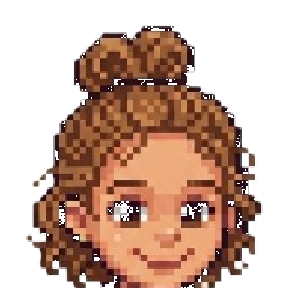
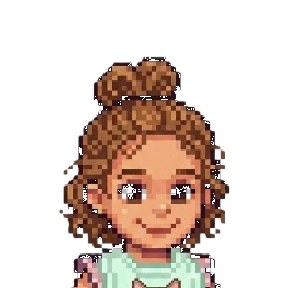
El busto de Helen se abre hasta el pecho, y Sofi cambia la honda por la onda
El retrato se recorta abriendo una caja alrededor de la cabeza, y ese margen
era el mismo para las ocho. Vale para siete; Helen no, porque está dibujada
con la cabeza más grande en proporción al cuerpo, así que la misma cuenta le
encuadraba un primer plano donde a las demás les coge hasta los hombros. Se
notaba al verla en la fila de la tienda, entre otras siete que sí respiran.

Ahora el margen se puede ajustar por personaje. Un número y no una regla
automática a propósito: cuánto cuerpo se ve es una decisión de encuadre, y una
fórmula que la adivine acertaría en unas y fallaría en otras sin que nadie
pueda corregirla sin tocar el algoritmo.

Y Sofi deja la honda balear por la onda expansiva. Las dos premian el bulto
sobre la puntería, pero desde lados contrarios: la piedra iba a buscar a la
horda y el anillo hace que la horda tenga que venir a ella. Encaja con sus
mods, que ya eran los de alguien rápido y frágil — el anillo abre el hueco por
el que salir y la velocidad es lo que te saca por él.

La lámina del README lleva los nombres de arma escritos a mano y dos habían
quedado obsoletos de golpe: Say seguía con los Satélites y Sofi con la honda.

Claude-Session: https://claude.ai/code/session_016RbRENmcz8mnG6uoihvh4d

diff --git a/js/datos/personajes.js b/js/datos/personajes.js
@@ -129,11 +129,16 @@ export const PERSONAJES = {
   sofi: {
     nombre: 'Sofi',
     sprite: 'sofi',
-    descripcion: 'Una piedra bien puesta vale por una legión.',
-    // Honda balear: piedra lenta que REBOTA de un enemigo a otro —tres saltos
-    // al 10— y empuja como ninguna. Premia el bulto, no la puntería, así que
-    // pide correr por delante de la horda: de ahí la velocidad más alta.
-    arma: 'honda',
+    descripcion: 'No hace falta apuntar cuando el suelo entero se mueve.',
+    // Onda expansiva: un anillo que se abre desde ella en TODAS las
+    // direcciones, sin apuntar a nada. Encaja con sus `mods`, que ya eran los
+    // de un personaje rápido y frágil: el anillo despeja el hueco por el que
+    // salir y la velocidad es lo que te saca por él.
+    //
+    // Llevaba la honda balear, que también premiaba el bulto sobre la
+    // puntería, pero desde fuera: la piedra iba a buscar a la horda. Esto es lo
+    // contrario — la horda tiene que venir a ella.
+    arma: 'ondaExpansiva',
     coste: 5000,
     mods: { vidaMaxima: 0.9, velocidad: 1.2, radioRecogida: 1.0 }
   }
